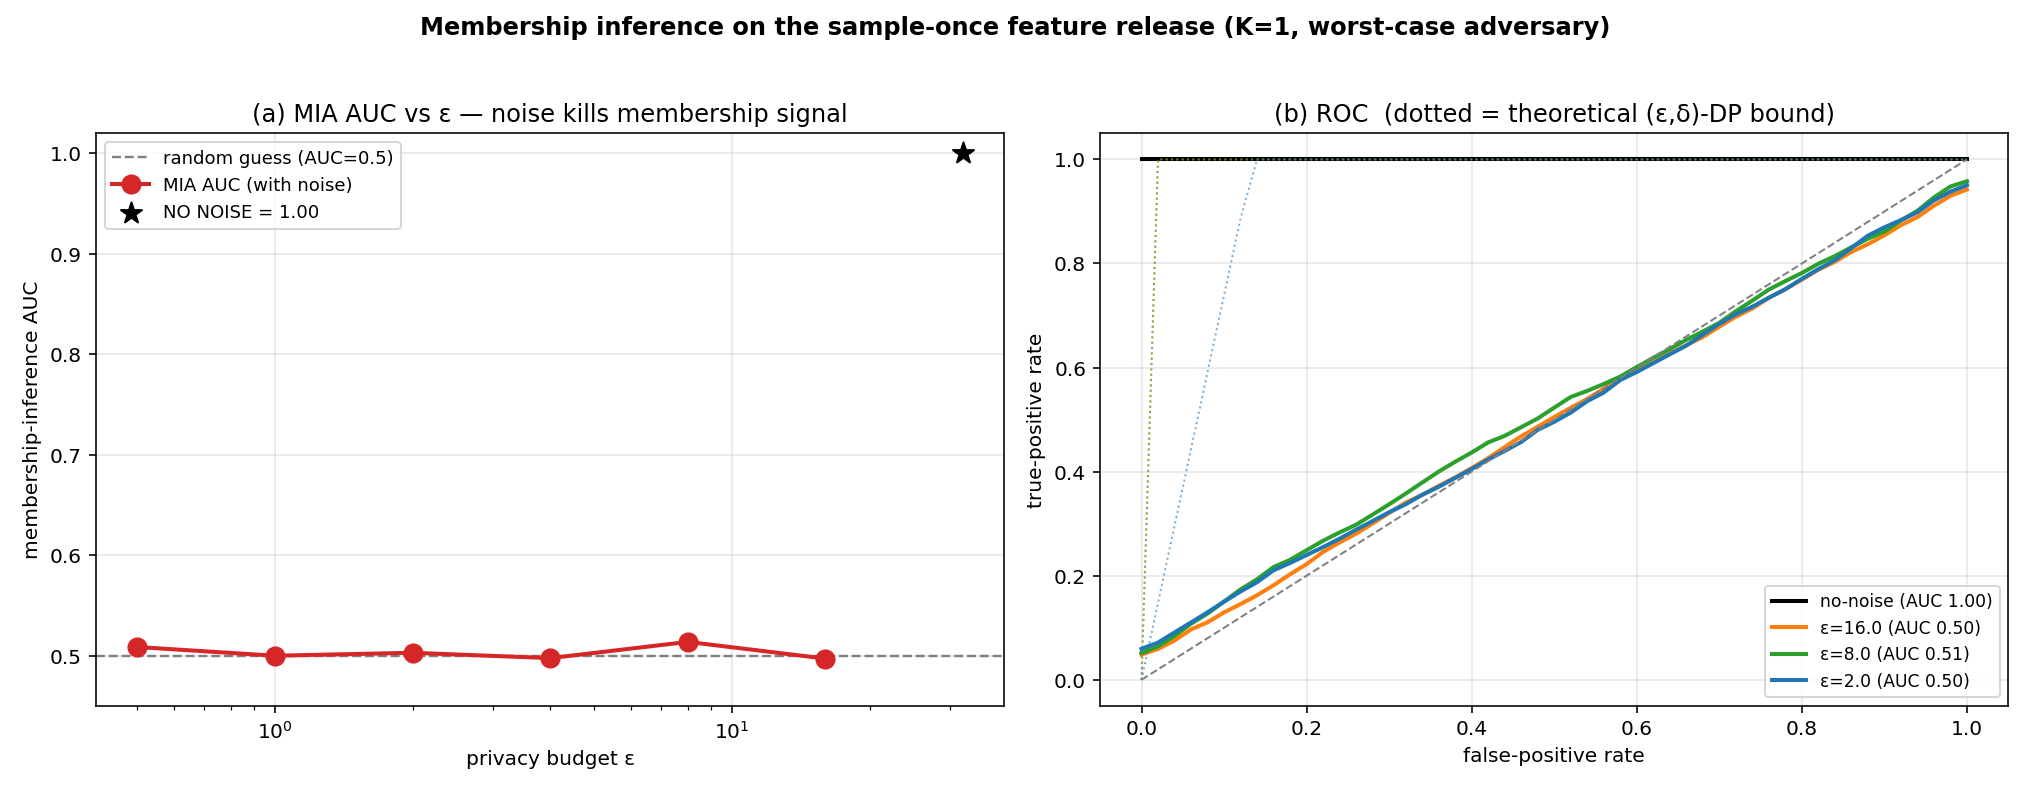
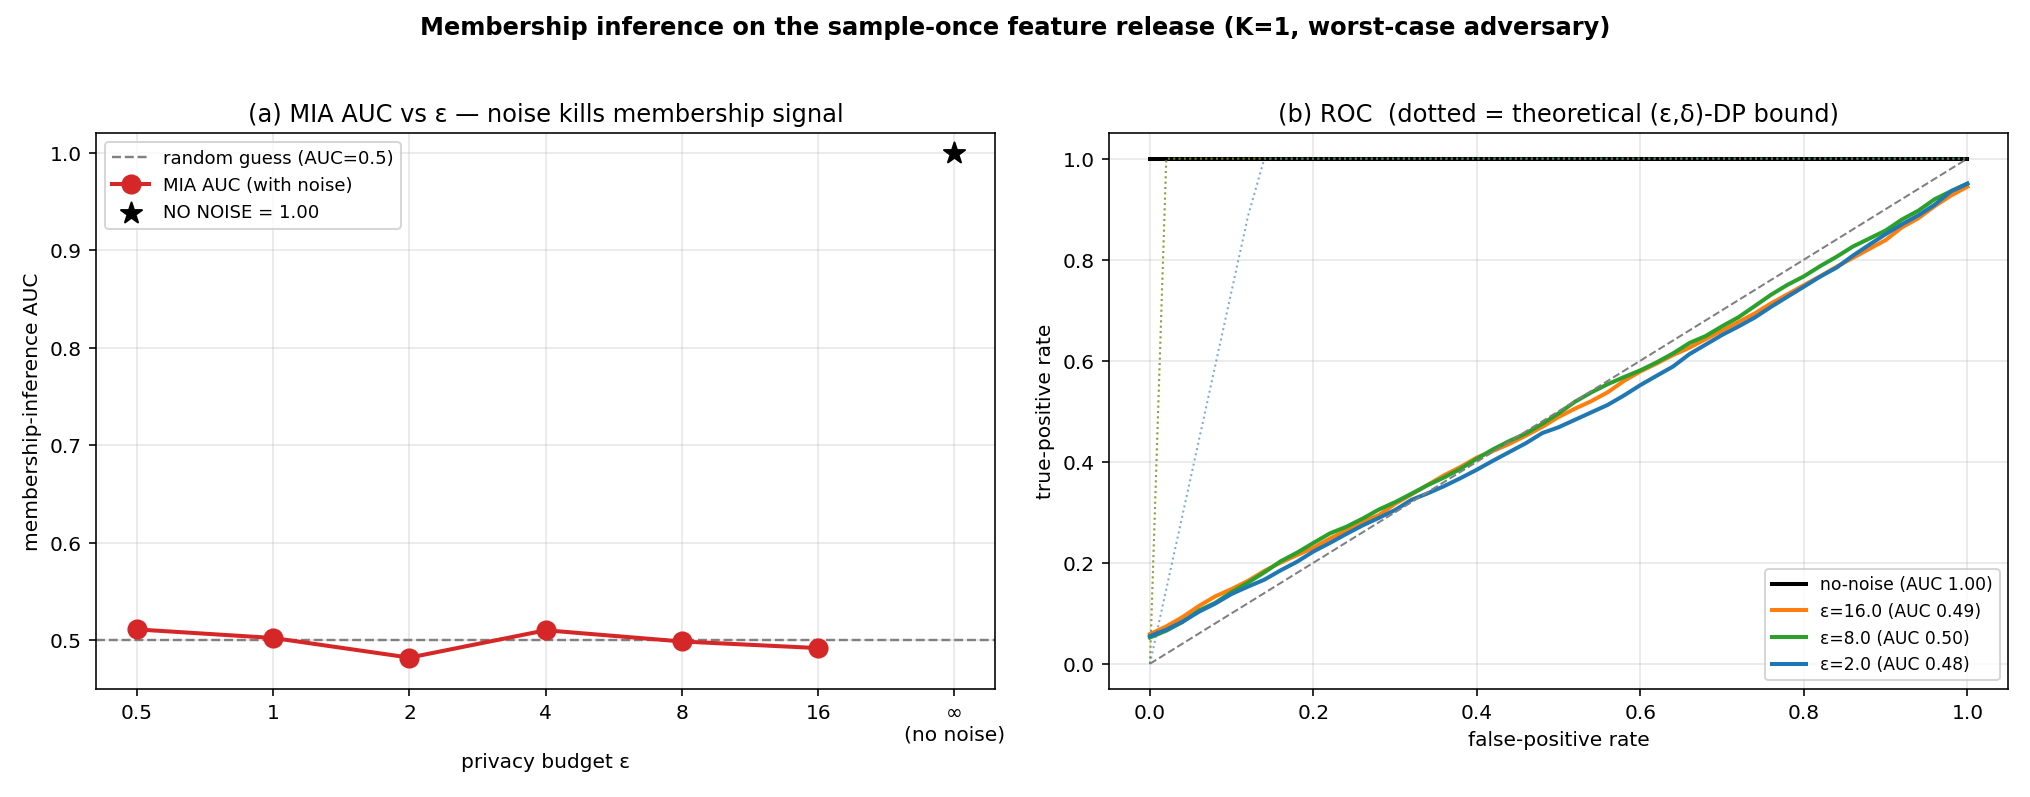
phase1: show ε directly on attack-figure x-axes (drop 2^k / 10^k tick format)
The log-scale auto-ticks rendered the budget axis as 2^k / 10^k, which read as
a different parameterization. Force explicit ticks = the actual ε values:
- reconstruction PSNR curve: ε ∈ {2,8,16,32}
- MIA AUC curve: ε ∈ {0.5,1,2,4,8,16} + "∞ (no noise)"
Axis label "privacy budget ε" now matches the tick values. Numbers unchanged.

diff --git a/phase1_distillation/drive_reconstruction_attack.py b/phase1_distillation/drive_reconstruction_attack.py
@@ -118,7 +118,9 @@ def main():
     ax.plot(es, [results[f"ε={e:g}"]["psnr"] for e in es], "o-", color="#d62728", lw=2, ms=8, label="PSNR (dB)")
     ax.axhline(results["no-noise"]["psnr"], color="black", ls="--", lw=1.3,
                label=f"no-noise PSNR={results['no-noise']['psnr']:.1f}")
-    ax.set_xscale("log", base=2); ax.set_xlabel("privacy budget ε"); ax.set_ylabel("reconstruction PSNR (dB)")
+    ax.set_xscale("log", base=2)
+    ax.set_xticks(es); ax.set_xticklabels([f"{int(e)}" for e in es]); ax.minorticks_off()
+    ax.set_xlabel("privacy budget ε"); ax.set_ylabel("reconstruction PSNR (dB)")
     ax.set_title("Reconstruction fidelity vs ε"); ax.legend(); ax.grid(alpha=0.3)
     fig2.tight_layout(); fig2.savefig(HERE / "fig_reconstruction_psnr.png", dpi=140)
     print("saved fig_reconstruction.png, fig_reconstruction_psnr.png + results json")

diff --git a/phase1_distillation/drive_mia_attack.py b/phase1_distillation/drive_mia_attack.py
@@ -112,7 +112,11 @@ def main():
              color="#d62728", lw=2, ms=9, label="MIA AUC (with noise)")
     ax1.scatter([max(epsilons) * 2], [results["no-noise"]["auc"]], color="black",
                 s=120, marker="*", zorder=5, label=f"NO NOISE = {results['no-noise']['auc']:.2f}")
-    ax1.set_xscale("log"); ax1.set_xlabel("privacy budget ε"); ax1.set_ylabel("membership-inference AUC")
+    ax1.set_xscale("log", base=2)
+    tk = sorted(epsilons) + [max(epsilons) * 2]
+    ax1.set_xticks(tk); ax1.set_xticklabels([f"{e:g}" for e in sorted(epsilons)] + ["∞\n(no noise)"])
+    ax1.minorticks_off()
+    ax1.set_xlabel("privacy budget ε"); ax1.set_ylabel("membership-inference AUC")
     ax1.set_ylim(0.45, 1.02); ax1.set_title("(a) MIA AUC vs ε — noise kills membership signal")
     ax1.legend(fontsize=9); ax1.grid(alpha=0.3)
 
